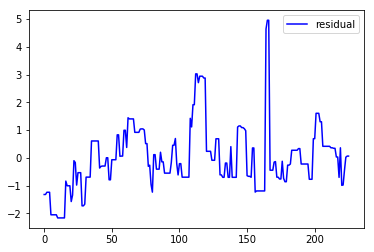
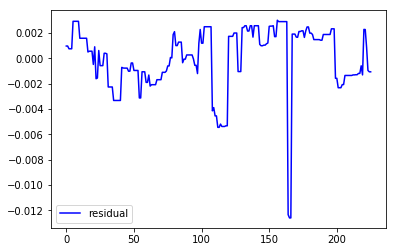
new

diff --git a/example.py b/example.py
@@ -41,9 +41,9 @@ def visualize():
     c1 = 1
     c2 = 6
     lm, difference = PairTrading.LogistLinearRegression(data[c1],data[c2])
-    difference = difference.ravel()
     
-    difference = [a-b for a, b in zip(standardized_data[c1],standardized_data[c2])]
+    
+#    difference = [a-b for a, b in zip(standardized_data[c1],standardized_data[c2])]
     
     plt.plot(difference,'-b',label='residual')
     plt.legend(loc=0)

diff --git a/strategies.py b/strategies.py
@@ -17,7 +17,7 @@ class PairTrading():
         logx = logx.reshape(-1,1)
         lm.fit(logx,logy)
         res_train = logy - lm.predict(logx)
-        return lm, res_train
+        return lm, res_train.ravel()
     
     
     # The amount should be the number we are gonna trade, lm is the linear model, and the account should 
